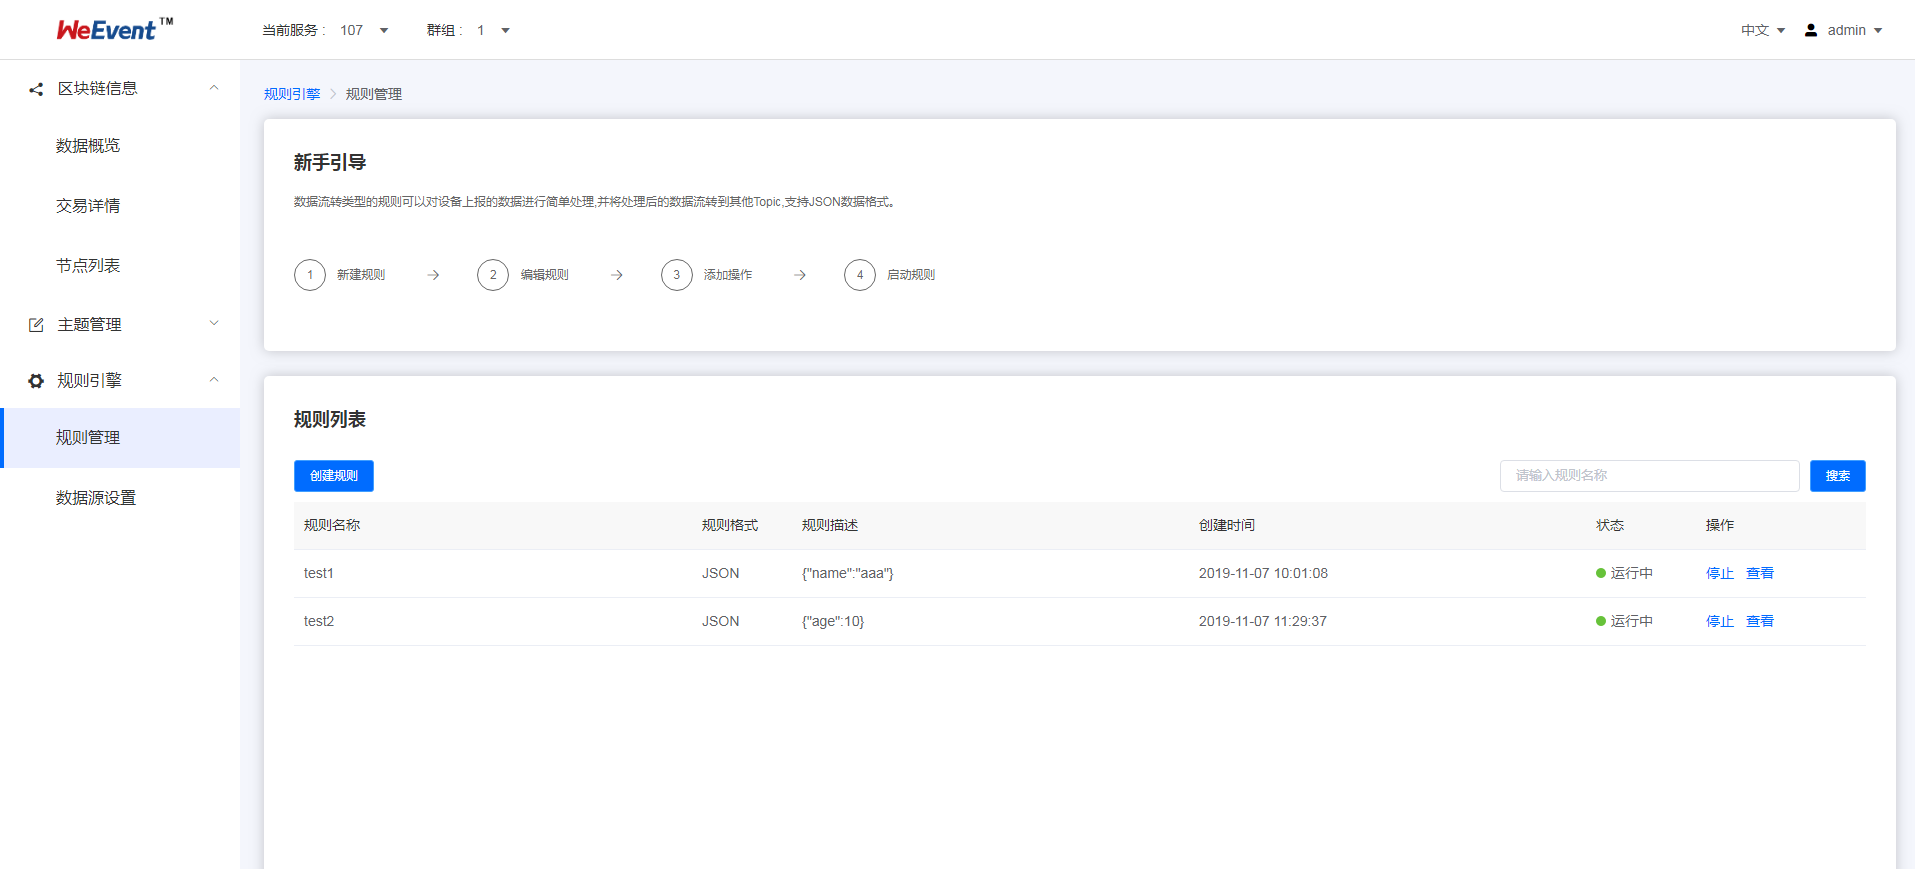
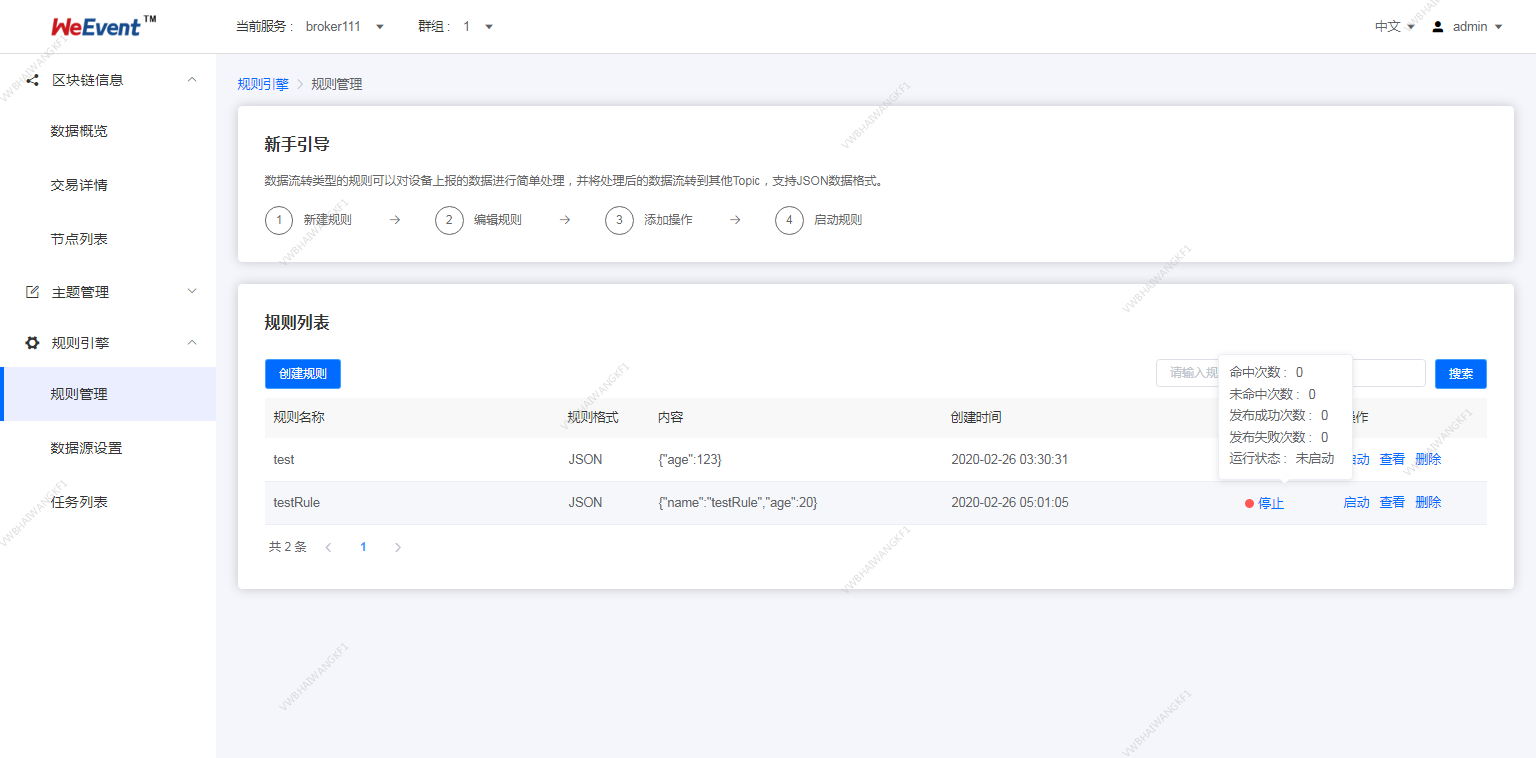
add the description of rule's operations (#133)
* update the processor and add the rule options

* remove description of rule

* update error words

diff --git a/docs/install/module/processor.md b/docs/install/module/processor.md
@@ -110,19 +110,21 @@ $ ./processor.sh start
 1. 创建规则
 
 ```
-{
-	"ruleName": "alarm",
-	"type": "json",
-	"payload": {
-		"temperate": 30,
-		"humidity": 0.5
-	}
-}
+      {
+         "ruleName":"alarm", 
+         "type":"json",
+         "payload":{
+               "temperate":30,
+               "humidity":0.5
+            }
+         "ruleDescription": ""
+      }
 ```
 
 - ruleName: 支持英文字母、数字、下划线、连字符
-- type：改规则处理数据的格式，目前只支持JSON格式。
-- 规则的详细描述。
+- type：改规则处理数据的格式，目前只支持JSON格式
+- payload: 规则的内容
+- ruleDescription: 对规则的补充描述
 
 ![processor-set1.png](../../image/processor/setRule.png)
 
@@ -142,6 +144,7 @@ $ ./processor.sh start
    "humidity":65,
    "type":"warning",
    "range":"higher",
+   "date": "2019-10-22"
    }
    ```
 
@@ -164,8 +167,8 @@ $ ./processor.sh start
             
          WHERE
          规则触发条件，条件表达式。不支持子SQL查询。WHERE中可以使用的字段和SELECT语句一致，当接收到对应Topic的消息时，WHERE语句的结果会作为是否触发规则的判断条件。`WHERE temperature > 38 and humidity < 40` 表示温度大于38且湿度小于40时，才会触发该规则，执行配置。
-     
-       - 可以进行单条件查询` >、<、>=、<=、<>、!=` ，具体详情见本章最后章节。
+         
+       - 可以进条件查询` >、<、>=、<=、<>、!=` ，具体详情见本章最后章节。
 
    ![processor-set2.png](../../image/processor/setRuleContent.png)
 
@@ -179,16 +182,14 @@ $ ./processor.sh start
 
 4. 规则列表展示
 
-   用户可以查询规则、创建规则、编辑规则、启动规则、停止规则、删除规则。
+   用户可以查询规则、创建规则、编辑规则、启动规则、停止规则、删除规则。并且通过规则的状态可查看该规则的运行状态及命中次数等信息。
 
    ![processor-list.png](../../image/processor/rulelist.png)
 
 
 
+
 #### 命中逻辑说明
-
-   - 不支持嵌套查询、连表查询、自带函数查询、ORDER BY（ASC|DESC）
-
 
    - 文本字段 vs. 数值字段
 
@@ -267,7 +268,7 @@ $ ./processor.sh start
 
    时间选取now， currentDate，currentTime
    ```
-    SELECT now,currentDate,currentTime FROM Websites WHERE range.substring(type,6)=="warning-001";
+    SELECT * FROM Websites WHERE date >= currentDate;
    ```
 
    
